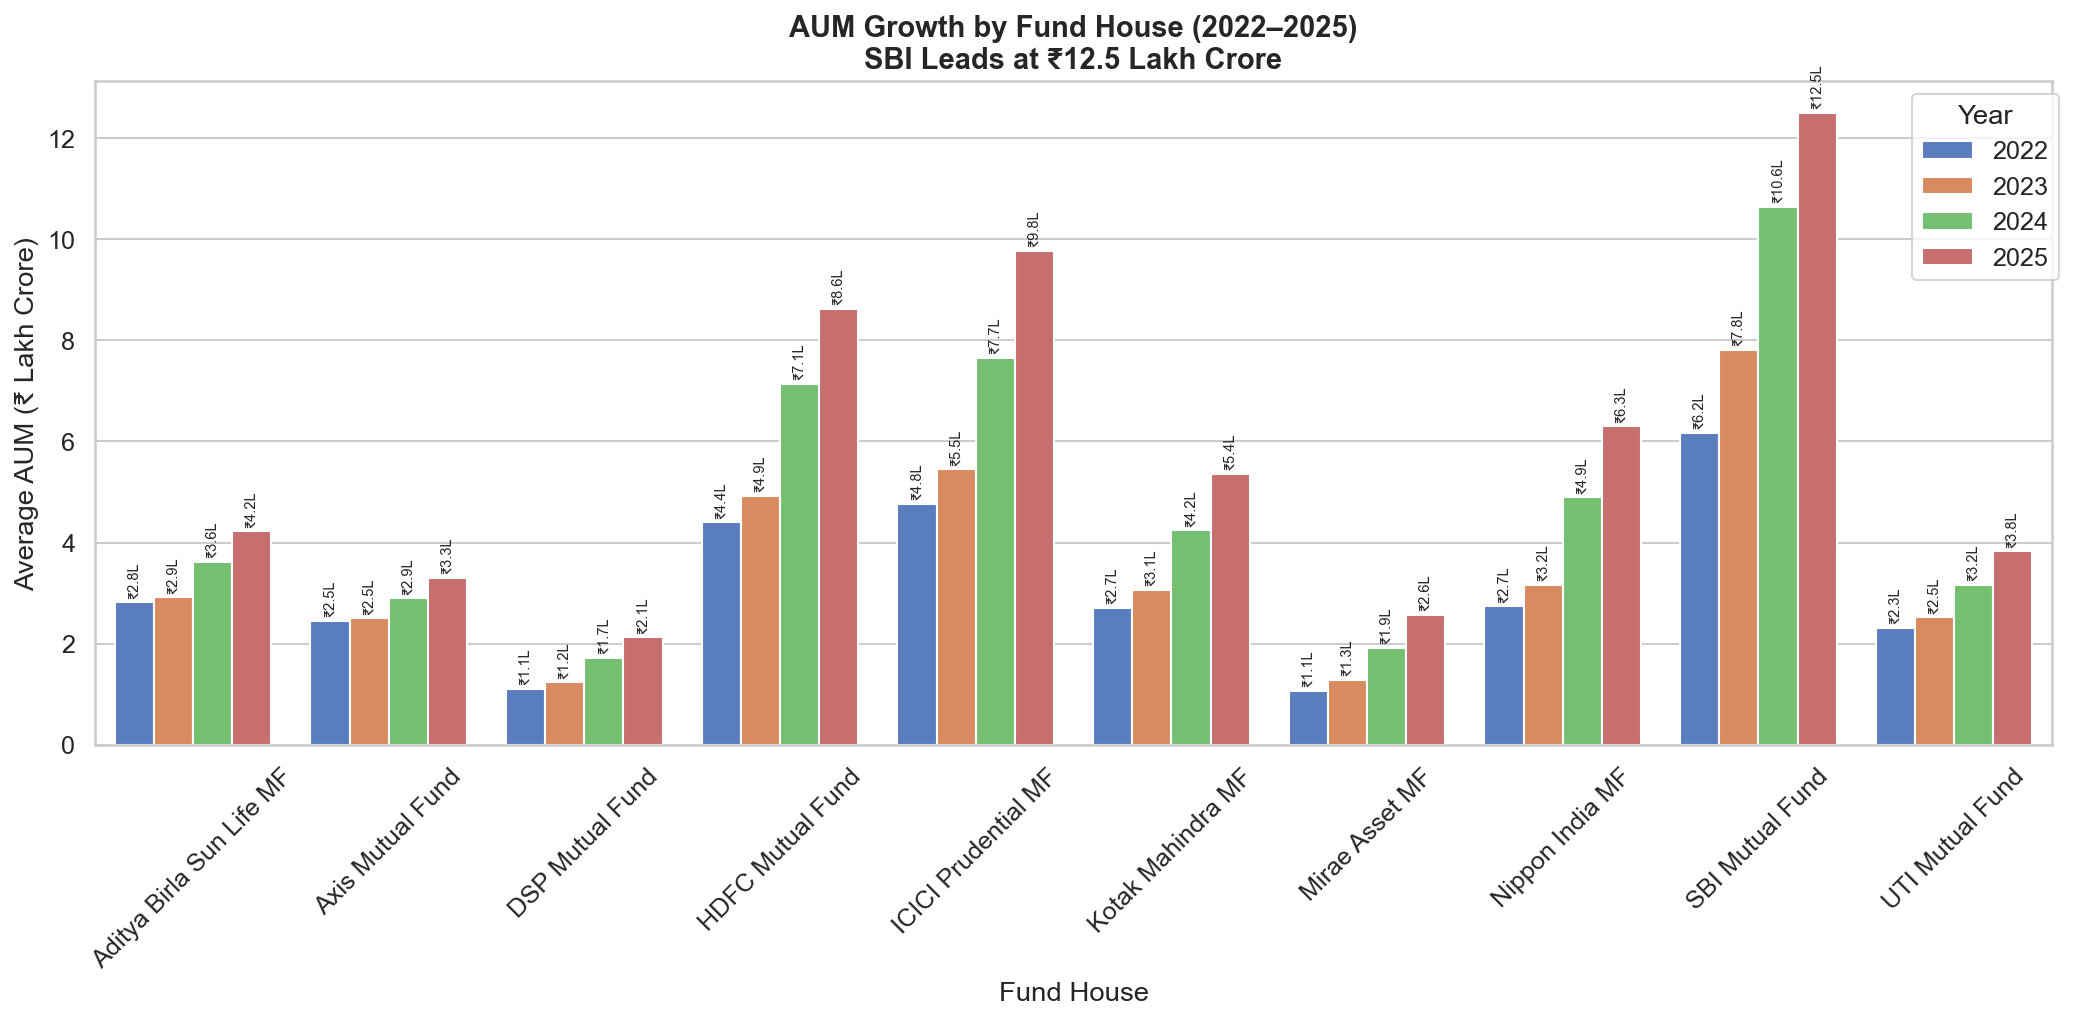
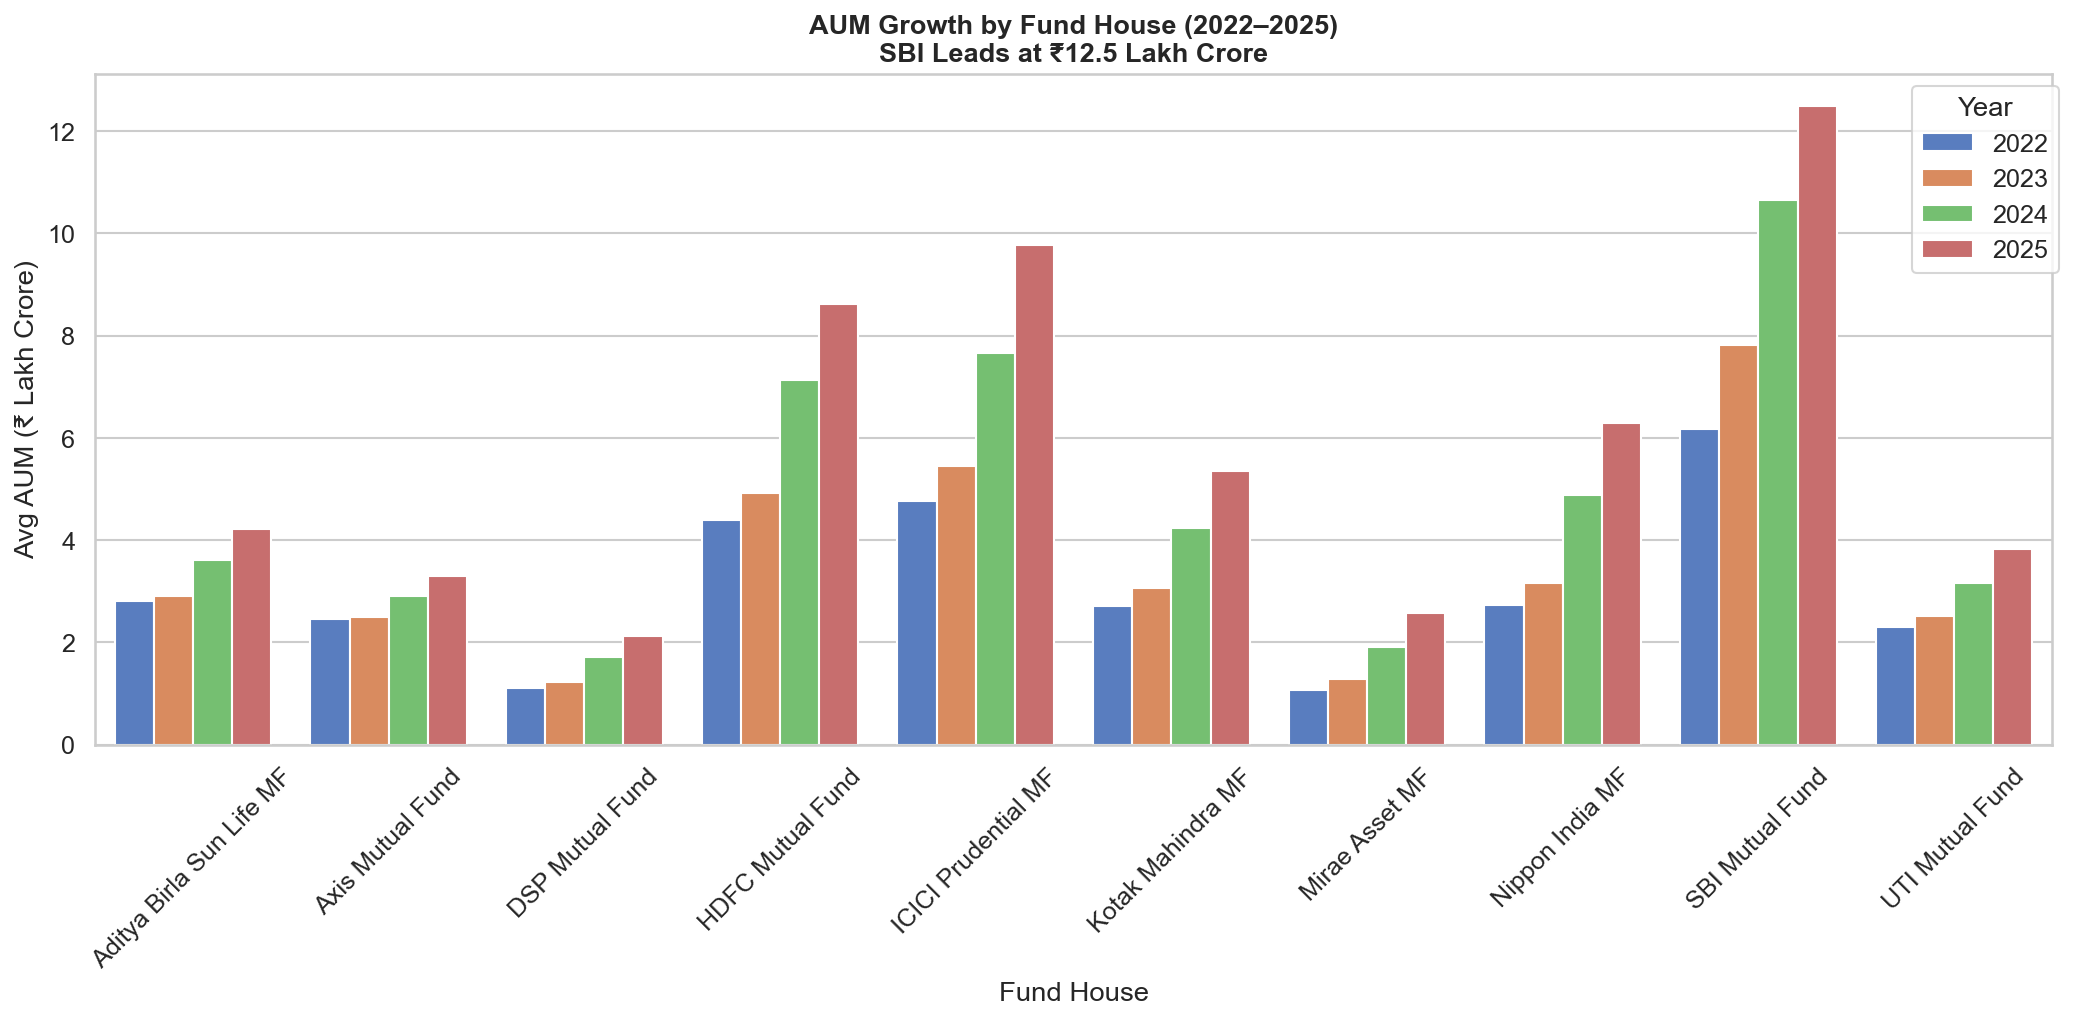
Day 3: EDA complete — 18 charts exported as PNG (matplotlib)

diff --git a/scripts/generate_charts.py b/scripts/generate_charts.py
@@ -1,0 +1,253 @@
+"""
+generate_charts.py — Day 3: Export all 18 EDA charts as PNG using matplotlib only.
+Run: python scripts/generate_charts.py
+No kaleido, no Jupyter, no Plotly write_image — all matplotlib/seaborn.
+"""
+import warnings
+warnings.filterwarnings("ignore")
+
+from pathlib import Path
+import numpy as np
+import pandas as pd
+import matplotlib.pyplot as plt
+import matplotlib.patches as mpatches
+import seaborn as sns
+
+# ── Paths ──────────────────────────────────────────────────────────────────
+ROOT        = Path(__file__).resolve().parents[1]
+PROC        = ROOT / "data" / "processed"
+CHARTS_DIR  = ROOT / "reports" / "charts"
+CHARTS_DIR.mkdir(parents=True, exist_ok=True)
+
+# ── Style ──────────────────────────────────────────────────────────────────
+sns.set_theme(style="whitegrid", palette="muted", font_scale=1.1)
+plt.rcParams.update({"figure.dpi": 150})
+
+def save(fig, name):
+    fig.savefig(CHARTS_DIR / name, dpi=150, bbox_inches="tight")
+    plt.close(fig)
+    print(f"  ✅ {name}")
+
+print("Loading data...")
+fund_master  = pd.read_csv(PROC / "01_fund_master_clean.csv")
+nav_history  = pd.read_csv(PROC / "02_nav_history_clean.csv", parse_dates=["date"])
+aum_data     = pd.read_csv(PROC / "03_aum_by_fund_house_clean.csv", parse_dates=["date"])
+sip_inflows  = pd.read_csv(PROC / "04_monthly_sip_inflows_clean.csv", parse_dates=["month"])
+cat_inflows  = pd.read_csv(PROC / "05_category_inflows_clean.csv", parse_dates=["month"])
+folio_count  = pd.read_csv(PROC / "06_industry_folio_count_clean.csv", parse_dates=["month"])
+performance  = pd.read_csv(PROC / "07_scheme_performance_clean.csv")
+transactions = pd.read_csv(PROC / "08_investor_transactions_clean.csv", parse_dates=["transaction_date"])
+portfolio    = pd.read_csv(PROC / "09_portfolio_holdings_clean.csv")
+benchmark    = pd.read_csv(PROC / "10_benchmark_indices_clean.csv", parse_dates=["date"])
+transactions["transaction_type"] = transactions["transaction_type"].str.strip().str.title().replace({"Sip": "SIP"})
+print("  Data loaded.\n")
+
+print("Generating charts...")
+
+# ── Chart 1: NAV Trend (sample weekly for speed, all schemes) ──────────────
+nav_merged = nav_history.merge(fund_master[["amfi_code","scheme_name"]], on="amfi_code", how="left")
+nav_merged["short"] = nav_merged["scheme_name"].str.replace(r" - (Regular|Direct) Plan.*","",regex=True).str.slice(0,25)
+nav_sampled = nav_merged.sort_values(["amfi_code","date"]).groupby("amfi_code").apply(lambda x: x.iloc[::7]).reset_index(drop=True)
+fig, ax = plt.subplots(figsize=(16, 7))
+for name, grp in nav_sampled.groupby("short"):
+    ax.plot(grp["date"], grp["nav"], lw=0.8, alpha=0.7)
+ax.axvspan(pd.Timestamp("2023-01-01"), pd.Timestamp("2023-12-31"), alpha=0.08, color="green", label="2023 Bull Run")
+ax.axvspan(pd.Timestamp("2024-04-01"), pd.Timestamp("2024-09-30"), alpha=0.08, color="red", label="2024 Correction")
+ax.set_title("Daily NAV Trend — All Mutual Fund Schemes (2022–2026)", fontsize=14, fontweight="bold")
+ax.set_xlabel("Date"); ax.set_ylabel("NAV (₹)")
+ax.legend(fontsize=9, loc="upper left"); plt.tight_layout()
+save(fig, "01_nav_trend.png")
+
+# ── Chart 2: AUM Growth ────────────────────────────────────────────────────
+aum_data["year"] = aum_data["date"].dt.year
+aum_yearly = aum_data.groupby(["year","fund_house"])["aum_lakh_crore"].mean().reset_index()
+fig, ax = plt.subplots(figsize=(14, 7))
+sns.barplot(data=aum_yearly, x="fund_house", y="aum_lakh_crore", hue="year", palette="muted", ax=ax)
+ax.set_title("AUM Growth by Fund House (2022–2025)\nSBI Leads at ₹12.5 Lakh Crore", fontsize=13, fontweight="bold")
+ax.set_xlabel("Fund House"); ax.set_ylabel("Avg AUM (₹ Lakh Crore)")
+ax.tick_params(axis="x", rotation=45); ax.legend(title="Year", bbox_to_anchor=(1.01,1))
+plt.tight_layout(); save(fig, "02_aum_growth.png")
+
+# ── Chart 3: SIP Inflow ────────────────────────────────────────────────────
+fig, ax = plt.subplots(figsize=(14, 5))
+ax.fill_between(sip_inflows["month"], sip_inflows["sip_inflow_crore"], alpha=0.25, color="#2196F3")
+ax.plot(sip_inflows["month"], sip_inflows["sip_inflow_crore"], color="#2196F3", lw=2.5, marker="o", ms=4)
+peak = sip_inflows.loc[sip_inflows["sip_inflow_crore"].idxmax()]
+ax.annotate(f"All-Time High\n₹{peak['sip_inflow_crore']:,} Cr", xy=(peak["month"], peak["sip_inflow_crore"]),
+    xytext=(peak["month"], peak["sip_inflow_crore"]*0.88),
+    arrowprops=dict(arrowstyle="->", color="red"), color="red", fontsize=10, ha="center")
+ax.set_title("Monthly SIP Inflows — Jan 2022 to Dec 2025 (₹ Crore)", fontsize=13, fontweight="bold")
+ax.set_xlabel("Month"); ax.set_ylabel("SIP Inflow (₹ Crore)"); plt.tight_layout()
+save(fig, "03_sip_trend.png")
+
+# ── Chart 4: Category Heatmap ─────────────────────────────────────────────
+cat_inflows["month_label"] = cat_inflows["month"].dt.strftime("%b-%y")
+pivot = cat_inflows.pivot_table(index="category", columns="month_label", values="net_inflow_crore", aggfunc="sum")
+month_order = cat_inflows.sort_values("month")["month_label"].unique()
+pivot = pivot.reindex(columns=[m for m in month_order if m in pivot.columns])
+fig, ax = plt.subplots(figsize=(16, 7))
+sns.heatmap(pivot, annot=True, fmt=".0f", cmap="RdYlGn", linewidths=0.5, ax=ax, annot_kws={"size":7})
+ax.set_title("Category-wise Net Inflow Heatmap (FY 2024-25)", fontsize=13, fontweight="bold")
+ax.tick_params(axis="x", rotation=45); plt.tight_layout()
+save(fig, "04_category_heatmap.png")
+
+# ── Chart 5: Demographics ─────────────────────────────────────────────────
+fig, axes = plt.subplots(1, 3, figsize=(16, 6))
+age_counts = transactions["age_group"].value_counts()
+axes[0].pie(age_counts.values, labels=age_counts.index, autopct="%1.1f%%", startangle=90)
+axes[0].set_title("Age Group Distribution")
+gender_counts = transactions["gender"].value_counts()
+axes[1].pie(gender_counts.values, labels=gender_counts.index, autopct="%1.1f%%",
+    colors=["#42A5F5","#EC407A"], startangle=90)
+axes[1].set_title("Gender Distribution")
+sip_txns = transactions[transactions["transaction_type"]=="SIP"]
+age_order = ["18-25","26-35","36-45","46-55","56+"]
+data_box = [sip_txns[sip_txns["age_group"]==a]["amount_inr"].dropna().values for a in age_order]
+axes[2].boxplot(data_box, labels=age_order, showfliers=False)
+axes[2].set_title("SIP Amount by Age Group"); axes[2].set_ylabel("Amount (₹)")
+fig.suptitle("Investor Demographics — Age, Gender & SIP Amounts", fontsize=13, fontweight="bold")
+plt.tight_layout(); save(fig, "05_demographics.png")
+
+# ── Chart 6: Geographic ───────────────────────────────────────────────────
+state_data = (transactions.groupby("state")["amount_inr"].sum().div(1e7).reset_index()
+    .rename(columns={"amount_inr":"total_crore"}).sort_values("total_crore"))
+city_tier = transactions.groupby("city_tier")["amount_inr"].sum()
+fig, (ax1, ax2) = plt.subplots(1, 2, figsize=(16, 7), gridspec_kw={"width_ratios":[2,1]})
+ax1.barh(state_data["state"], state_data["total_crore"], color="#42A5F5")
+ax1.set_title("Total Investment by State (₹ Crore)"); ax1.set_xlabel("₹ Crore")
+ax2.pie(city_tier.values, labels=city_tier.index, autopct="%1.1f%%",
+    colors=["#FF7043","#66BB6A"], startangle=90)
+ax2.set_title("T30 vs B30 City Split")
+plt.tight_layout(); save(fig, "06_geo_distribution.png")
+
+# ── Chart 7: Folio Growth ─────────────────────────────────────────────────
+fig, ax = plt.subplots(figsize=(14, 6))
+colors = {"equity_folios_crore":"#1976D2","debt_folios_crore":"#F57C00",
+          "hybrid_folios_crore":"#388E3C","others_folios_crore":"#7B1FA2"}
+labels = {"equity_folios_crore":"Equity","debt_folios_crore":"Debt",
+          "hybrid_folios_crore":"Hybrid","others_folios_crore":"Others"}
+bottom = np.zeros(len(folio_count))
+for col, color in colors.items():
+    ax.fill_between(folio_count["month"], bottom, bottom + folio_count[col].values,
+        label=labels[col], color=color, alpha=0.8)
+    bottom += folio_count[col].values
+ax.set_title("Mutual Fund Folio Count Growth — Jan 2022 to Dec 2025", fontsize=13, fontweight="bold")
+ax.set_xlabel("Month"); ax.set_ylabel("Folios (Crore)"); ax.legend(); plt.tight_layout()
+save(fig, "07_folio_growth.png")
+
+# ── Chart 8: Correlation Matrix ───────────────────────────────────────────
+top10 = nav_history.groupby("amfi_code")["date"].count().nlargest(10).index.tolist()
+pivot_r = (nav_history[nav_history["amfi_code"].isin(top10)]
+    .pivot_table(index="date", columns="amfi_code", values="daily_return_pct")
+    .dropna(thresh=8).fillna(method="ffill").dropna())
+code_to_name = fund_master.set_index("amfi_code")["scheme_name"].str.replace(r" - (Regular|Direct) Plan.*","",regex=True).str.slice(0,18)
+pivot_r.columns = [code_to_name.get(c, str(c)) for c in pivot_r.columns]
+corr = pivot_r.corr()
+fig, ax = plt.subplots(figsize=(12, 9))
+mask = np.triu(np.ones_like(corr, dtype=bool))
+sns.heatmap(corr, annot=True, fmt=".2f", cmap="coolwarm", mask=mask, ax=ax,
+    linewidths=0.5, vmin=-1, vmax=1, cbar_kws={"label":"Pearson Correlation"})
+ax.set_title("NAV Daily Return Correlation Matrix — 10 Funds", fontsize=13, fontweight="bold")
+plt.tight_layout(); save(fig, "08_correlation_matrix.png")
+
+# ── Chart 9: Sector Allocation ────────────────────────────────────────────
+sector_agg = portfolio.groupby("sector")["market_value_cr"].sum().sort_values(ascending=False)
+fig, ax = plt.subplots(figsize=(10, 8))
+wedges, texts, autotexts = ax.pie(sector_agg.values, labels=sector_agg.index,
+    autopct="%1.1f%%", startangle=90, pctdistance=0.82,
+    wedgeprops=dict(width=0.55))
+ax.set_title("Equity Fund Portfolio — Sector Allocation by Market Value", fontsize=13, fontweight="bold")
+plt.tight_layout(); save(fig, "09_sector_allocation.png")
+
+# ── Chart 10: Fund House Scheme Count ─────────────────────────────────────
+fh_counts = fund_master["fund_house"].value_counts()
+fig, ax = plt.subplots(figsize=(10, 6))
+bars = ax.barh(fh_counts.index, fh_counts.values, color=plt.cm.Blues(np.linspace(0.4, 0.9, len(fh_counts))))
+ax.bar_label(bars, padding=3); ax.set_title("Number of Schemes per Fund House", fontsize=13, fontweight="bold")
+ax.set_xlabel("Schemes"); plt.tight_layout(); save(fig, "10_fund_house_dist.png")
+
+# ── Chart 11: Risk Distribution ───────────────────────────────────────────
+risk_counts = fund_master["risk_category"].value_counts()
+fig, ax = plt.subplots(figsize=(8, 6))
+ax.pie(risk_counts.values, labels=risk_counts.index, autopct="%1.1f%%", startangle=90, pctdistance=0.82,
+    wedgeprops=dict(width=0.55))
+ax.set_title("Fund Risk Grade Distribution", fontsize=13, fontweight="bold")
+plt.tight_layout(); save(fig, "11_risk_distribution.png")
+
+# ── Chart 12: Expense Ratio ───────────────────────────────────────────────
+fig, ax = plt.subplots(figsize=(10, 5))
+sns.histplot(fund_master["expense_ratio_pct"], bins=15, kde=True, color="#5C6BC0", ax=ax, edgecolor="white")
+ax.axvline(fund_master["expense_ratio_pct"].mean(), color="red", linestyle="--",
+    label=f"Mean: {fund_master['expense_ratio_pct'].mean():.2f}%")
+ax.axvline(1.0, color="orange", linestyle=":", label="1% Threshold")
+ax.set_title("Expense Ratio Distribution Across All Schemes", fontsize=13, fontweight="bold")
+ax.set_xlabel("Expense Ratio (%)"); ax.set_ylabel("Frequency"); ax.legend()
+plt.tight_layout(); save(fig, "12_expense_ratio.png")
+
+# ── Chart 13: Transaction Types ───────────────────────────────────────────
+txn_type = transactions["transaction_type"].value_counts()
+fig, ax = plt.subplots(figsize=(8, 6))
+ax.pie(txn_type.values, labels=txn_type.index, autopct="%1.1f%%", startangle=90,
+    colors=["#42A5F5","#66BB6A","#EF5350"], wedgeprops=dict(width=0.55))
+ax.set_title("Investor Transaction Type Distribution", fontsize=13, fontweight="bold")
+plt.tight_layout(); save(fig, "13_transaction_types.png")
+
+# ── Chart 14: Risk-Return Scatter ─────────────────────────────────────────
+fig, ax = plt.subplots(figsize=(12, 7))
+for cat, grp in performance.groupby("category"):
+    ax.scatter(grp["sharpe_ratio"], grp["return_3yr_pct"], s=grp["aum_crore"]/100, alpha=0.7, label=cat)
+ax.axhline(performance["return_3yr_pct"].mean(), linestyle=":", color="gray", label="Avg Return")
+ax.axvline(1.0, linestyle=":", color="orange", label="Sharpe=1.0")
+ax.set_title("Risk-Return Map — Sharpe Ratio vs 3-Year Return", fontsize=13, fontweight="bold")
+ax.set_xlabel("Sharpe Ratio"); ax.set_ylabel("3-Yr CAGR (%)")
+ax.legend(fontsize=8, loc="upper left"); plt.tight_layout(); save(fig, "14_risk_return_scatter.png")
+
+# ── Chart 15: Monthly Transaction Trend ──────────────────────────────────
+txn_monthly = (transactions.groupby(transactions["transaction_date"].dt.to_period("M"))
+    .agg(count=("amount_inr","count"), total_cr=("amount_inr", lambda x: x.sum()/1e7)).reset_index())
+txn_monthly["transaction_date"] = txn_monthly["transaction_date"].dt.to_timestamp()
+fig, ax1 = plt.subplots(figsize=(14, 5))
+ax2 = ax1.twinx()
+ax1.bar(txn_monthly["transaction_date"], txn_monthly["count"], color="#90CAF9", alpha=0.8, label="Count")
+ax2.plot(txn_monthly["transaction_date"], txn_monthly["total_cr"], color="#F4511E", lw=2.5, marker="o", ms=4, label="Value (₹Cr)")
+ax1.set_title("Monthly Transaction Volume & Value Trend", fontsize=13, fontweight="bold")
+ax1.set_ylabel("Count"); ax2.set_ylabel("Value (₹ Crore)")
+ax1.legend(loc="upper left"); ax2.legend(loc="upper right")
+plt.tight_layout(); save(fig, "15_monthly_transactions.png")
+
+# ── Chart 16: Category Treemap ────────────────────────────────────────────
+try:
+    import squarify
+    cat_dist = fund_master.groupby("category").size().sort_values(ascending=False)
+    fig, ax = plt.subplots(figsize=(12, 7))
+    squarify.plot(sizes=cat_dist.values, label=cat_dist.index, alpha=0.8, ax=ax,
+        color=plt.cm.viridis(np.linspace(0.2, 0.9, len(cat_dist))))
+    ax.set_title("Fund Category Distribution Treemap", fontsize=13, fontweight="bold")
+    ax.axis("off"); plt.tight_layout(); save(fig, "16_category_treemap.png")
+except ImportError:
+    # fallback bar chart if squarify not installed
+    cat_dist = fund_master.groupby("category").size().sort_values()
+    fig, ax = plt.subplots(figsize=(10, 6))
+    ax.barh(cat_dist.index, cat_dist.values, color="#7B1FA2")
+    ax.set_title("Fund Category Distribution", fontsize=13, fontweight="bold")
+    plt.tight_layout(); save(fig, "16_category_treemap.png")
+
+# ── Chart 17: Benchmark Comparison ───────────────────────────────────────
+fig, ax = plt.subplots(figsize=(14, 6))
+for name, grp in benchmark.groupby("index_name"):
+    ax.plot(grp["date"], grp["close_value"], lw=2, label=name)
+ax.set_title("Benchmark Index Performance Comparison (2022–2026)", fontsize=13, fontweight="bold")
+ax.set_xlabel("Date"); ax.set_ylabel("Index Value"); ax.legend()
+plt.tight_layout(); save(fig, "17_benchmark_comparison.png")
+
+# ── Chart 18: Top 10 Funds by AUM ────────────────────────────────────────
+top10_aum = performance.nlargest(10, "aum_crore").copy()
+top10_aum["short_name"] = top10_aum["scheme_name"].str.replace(r" - (Regular|Direct).*","",regex=True).str.slice(0,30)
+top10_aum = top10_aum.sort_values("aum_crore")
+fig, ax = plt.subplots(figsize=(12, 7))
+colors = plt.cm.RdYlGn(np.linspace(0.2, 0.9, len(top10_aum)))
+bars = ax.barh(top10_aum["short_name"], top10_aum["aum_crore"], color=colors)
+ax.set_title("Top 10 Funds by AUM — Coloured by 3-Yr Return", fontsize=13, fontweight="bold")
+ax.set_xlabel("AUM (₹ Crore)"); plt.tight_layout(); save(fig, "18_top10_aum.png")
+
+print(f"\n✅ All 18 charts saved to: {CHARTS_DIR}")